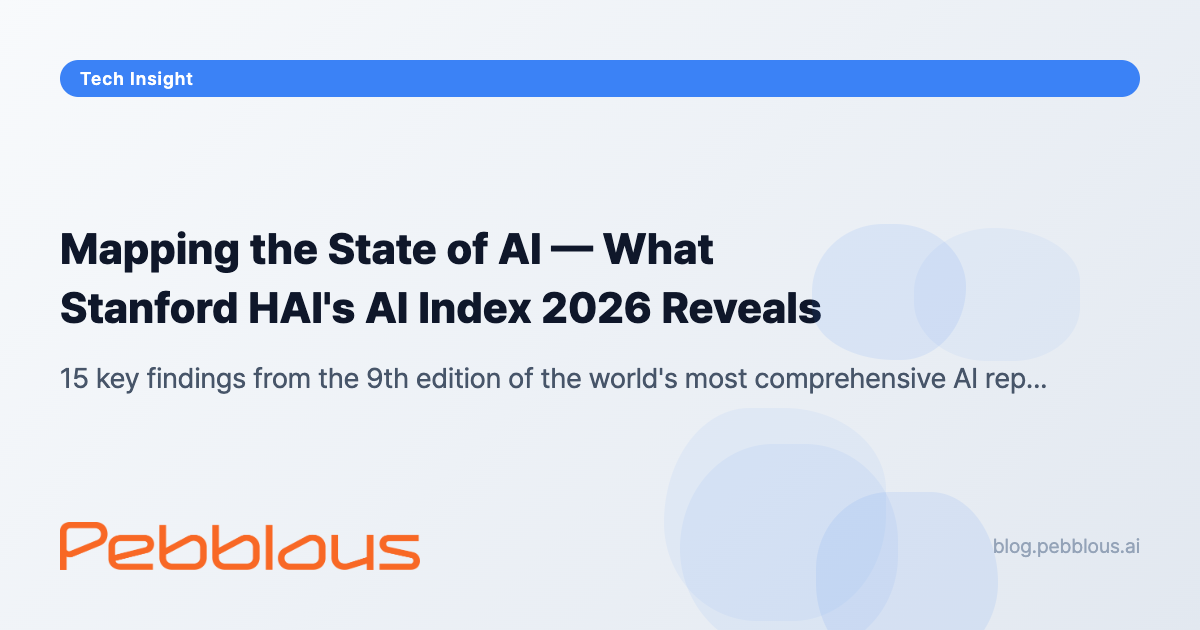
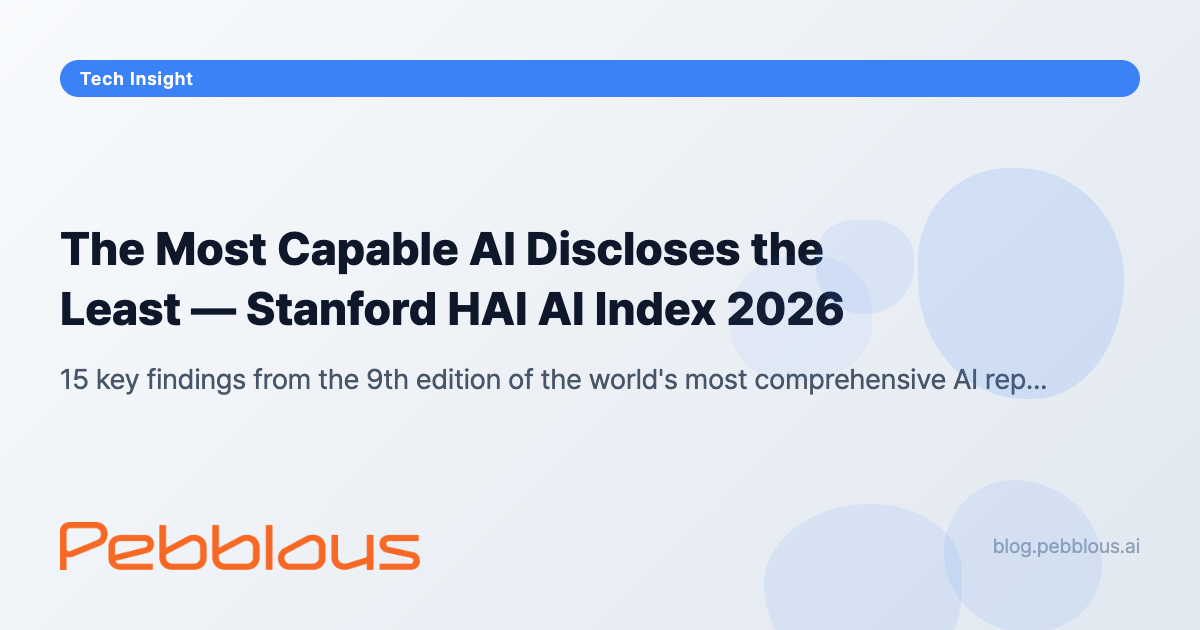
fix: HAI AI Index 제목 리뉴얼 + title-strategy §7 규칙 추가
제목: "AI의 지도를 펼치다" → "가장 뛰어난 AI가 가장 적게 공개한다"
- Executive Summary에 FMTI 58→40 투명성 문단 + stat-card 2개 추가
- title-strategy.md §7: 제목→Exec Summary 일관성 규칙 신설
- report-produce SKILL.md: Phase 4에 title-strategy §7 참조 추가
- OG 이미지 재생성 + articles.json 제목 업데이트

diff --git a/report/hai-ai-index-2026-part1/ko/index.html b/report/hai-ai-index-2026-part1/ko/index.html
@@ -9,7 +9,7 @@
     <meta name="copyright" content="&copy; 2026 Pebblous. All rights reserved.">
     <meta name="robots" content="index, follow">
 
-    <title>AI의 지도를 펼치다 — Stanford HAI AI Index 2026이 말하는 것 | 페블러스</title>
+    <title>가장 뛰어난 AI가 가장 적게 공개한다 — Stanford HAI AI Index 2026 핵심 해설 | 페블러스</title>
     <meta name="description" content="Stanford HAI AI Index 2026의 핵심 발견 15개를 해설합니다. 글로벌 AI 투자 $581.7B, GenAI 채택 53%, DeepSeek의 미중 격차 해소까지. 2025판 대비 변화와 데이터 품질 사각지대를 분석합니다.">
     <meta name="keywords" content="AI Index, Stanford HAI, 글로벌 AI, AI 벤치마크, AI 투자, AI 정책, DeepSeek, 데이터 품질, AI Index 2026, AI 현황 보고서">
 
@@ -20,13 +20,13 @@
 
     <!-- Open Graph -->
     <meta property="og:type" content="article">
-    <meta property="og:title" content="AI의 지도를 펼치다 — Stanford HAI AI Index 2026이 말하는 것">
+    <meta property="og:title" content="가장 뛰어난 AI가 가장 적게 공개한다 — Stanford HAI AI Index 2026 핵심 해설">
     <meta property="og:description" content="9번째 글로벌 AI 현황 보고서의 핵심 발견 15개와 2025판 대비 변화. 투자 $581.7B, DeepSeek 등장, 데이터 품질 사각지대를 분석합니다.">
     <meta property="og:url" content="https://blog.pebblous.ai/report/hai-ai-index-2026-part1/ko/">
     <meta property="og:image" content="https://blog.pebblous.ai/report/hai-ai-index-2026-part1/ko/image/index.png">
     <meta property="og:image:width" content="1200">
     <meta property="og:image:height" content="630">
-    <meta property="og:image:alt" content="AI의 지도를 펼치다 — Stanford HAI AI Index 2026이 말하는 것">
+    <meta property="og:image:alt" content="가장 뛰어난 AI가 가장 적게 공개한다 — Stanford HAI AI Index 2026 핵심 해설">
     <meta property="og:site_name" content="Pebblous Blog">
     <meta property="og:locale" content="ko_KR">
 
@@ -34,7 +34,7 @@
     <meta name="twitter:card" content="summary_large_image">
     <meta name="twitter:site" content="@pebblous_ai">
     <meta name="twitter:creator" content="@pebblous_ai">
-    <meta name="twitter:title" content="AI의 지도를 펼치다 — Stanford HAI AI Index 2026이 말하는 것">
+    <meta name="twitter:title" content="가장 뛰어난 AI가 가장 적게 공개한다 — Stanford HAI AI Index 2026 핵심 해설">
     <meta name="twitter:description" content="Stanford HAI AI Index 2026 핵심 발견 15개 해설. 글로벌 AI 투자 $581.7B, GenAI 53% 채택, DeepSeek의 미중 격차 해소.">
     <meta name="twitter:image" content="https://blog.pebblous.ai/report/hai-ai-index-2026-part1/ko/image/index.png">
     <meta name="twitter:image:alt" content="Stanford HAI AI Index 2026 보고서 분석 표지">
@@ -159,6 +159,9 @@
                             가장 주목할 변화는 미중 AI 격차의 사실상 해소다. DeepSeek-R1이 2025년 2월 미국 1위 모델과 동등한 성능을 기록했고, 2026년 3월 기준 Anthropic 1위 모델이 2.7%만 앞서는 수준이다. 동시에 AI는 IMO 금메달을 따면서도 아날로그 시계를 50.1%밖에 읽지 못하는 "울퉁불퉁한 최전선(jagged frontier)"을 보여준다. 역량과 한계가 극적으로 공존하는 시대다.
                         </p>
                         <p class="themeable-text leading-relaxed mt-4">
+                            그러나 역량이 강해질수록 투명성은 후퇴하고 있다. Foundation Model Transparency Index는 전년 <strong>58점에서 40점</strong>으로 급락했다. Google, Anthropic, OpenAI 모두 최신 모델의 데이터셋 크기와 학습 기간 공개를 중단했다. 95개 주요 모델 중 <strong>84%</strong>가 학습 코드를 제공하지 않는다. 보고서의 요약은 날카롭다 — "가장 뛰어난 모델이 가장 적게 공개한다."
+                        </p>
+                        <p class="themeable-text leading-relaxed mt-4">
                             페블러스가 주목하는 건 AI Index가 측정하지 않는 영역이다. 학습 데이터 품질, 산업 현장 적용도, 벤치마크 포화 이후의 평가 체계. 보고서 Ch.1은 "합성데이터가 실제 데이터를 대체하지 못하지만, 데이터 품질과 후처리가 유망"이라고 명시한다. OLMo 3.1 Think 32B가 Grok 4보다 90배 적은 파라미터로 유사 성능을 달성한 사례가 이를 뒷받침한다. 데이터 품질은 모델 아키텍처만큼 중요한 설계 변수다.
                         </p>
                     </div>
@@ -180,6 +183,14 @@
                         <div class="stat-card themeable-bg-card rounded-lg">
                             <div class="stat-number">2.7%</div>
                             <p class="themeable-text text-sm mt-1">미중 AI 모델 성능 격차 (2026.3 기준)</p>
+                        </div>
+                        <div class="stat-card themeable-bg-card rounded-lg">
+                            <div class="stat-number">40점</div>
+                            <p class="themeable-text text-sm mt-1">투명성 지수 FMTI (전년 58점)</p>
+                        </div>
+                        <div class="stat-card themeable-bg-card rounded-lg">
+                            <div class="stat-number">362건</div>
+                            <p class="themeable-text text-sm mt-1">AI 사고 건수 (+55% YoY)</p>
                         </div>
                     </div>
                 </section>
@@ -708,9 +719,9 @@
     <script src="/scripts/common-utils.js?v=20260419"></script>
     <script>
         PebblousPage.init({
-            mainTitle: "AI의 지도를 펼치다",
-            subtitle: "Stanford HAI AI Index 2026이 말하는 것",
-            pageTitle: "AI의 지도를 펼치다 — Stanford HAI AI Index 2026이 말하는 것 | 페블러스",
+            mainTitle: "가장 뛰어난 AI가 가장 적게 공개한다",
+            subtitle: "Stanford HAI AI Index 2026 핵심 해설",
+            pageTitle: "가장 뛰어난 AI가 가장 적게 공개한다 — Stanford HAI AI Index 2026 핵심 해설 | 페블러스",
             category: "tech",
             publishDate: "2026-04-19",
             publisher: "(주)페블러스 데이터커뮤니케이션팀",

diff --git a/report/hai-ai-index-2026-part1/en/index.html b/report/hai-ai-index-2026-part1/en/index.html
@@ -9,7 +9,7 @@
     <meta name="copyright" content="&copy; 2026 Pebblous. All rights reserved.">
     <meta name="robots" content="index, follow">
 
-    <title>Mapping the State of AI — What Stanford HAI's AI Index 2026 Reveals | Pebblous</title>
+    <title>The Most Capable AI Discloses the Least — Stanford HAI AI Index 2026 | Pebblous</title>
     <meta name="description" content="A deep dive into Stanford HAI AI Index 2026's 15 key findings. Global AI investment hit $581.7B, GenAI adoption reached 53%, and DeepSeek closed the US-China gap. We analyze year-over-year shifts and the data quality blind spot.">
     <meta name="keywords" content="AI Index, Stanford HAI, global AI, AI benchmarks, AI investment, AI policy, DeepSeek, data quality, AI Index 2026, state of AI report">
 
@@ -20,13 +20,13 @@
 
     <!-- Open Graph -->
     <meta property="og:type" content="article">
-    <meta property="og:title" content="Mapping the State of AI — What Stanford HAI's AI Index 2026 Reveals">
+    <meta property="og:title" content="The Most Capable AI Discloses the Least — Stanford HAI AI Index 2026">
     <meta property="og:description" content="15 key findings from the 9th edition of the world's most comprehensive AI report. $581.7B in investment, DeepSeek's rise, and the data quality blind spot.">
     <meta property="og:url" content="https://blog.pebblous.ai/report/hai-ai-index-2026-part1/en/">
     <meta property="og:image" content="https://blog.pebblous.ai/report/hai-ai-index-2026-part1/en/image/index.png">
     <meta property="og:image:width" content="1200">
     <meta property="og:image:height" content="630">
-    <meta property="og:image:alt" content="Mapping the State of AI — What Stanford HAI's AI Index 2026 Reveals">
+    <meta property="og:image:alt" content="The Most Capable AI Discloses the Least — Stanford HAI AI Index 2026">
     <meta property="og:site_name" content="Pebblous Blog">
     <meta property="og:locale" content="en_US">
 
@@ -34,7 +34,7 @@
     <meta name="twitter:card" content="summary_large_image">
     <meta name="twitter:site" content="@pebblous_ai">
     <meta name="twitter:creator" content="@pebblous_ai">
-    <meta name="twitter:title" content="Mapping the State of AI — What Stanford HAI's AI Index 2026 Reveals">
+    <meta name="twitter:title" content="The Most Capable AI Discloses the Least — Stanford HAI AI Index 2026">
     <meta name="twitter:description" content="Stanford HAI AI Index 2026: 15 key findings. $581.7B in global AI investment, 53% GenAI adoption, and how DeepSeek closed the US-China performance gap.">
     <meta name="twitter:image" content="https://blog.pebblous.ai/report/hai-ai-index-2026-part1/en/image/index.png">
     <meta name="twitter:image:alt" content="Stanford HAI AI Index 2026 analysis cover">
@@ -159,6 +159,9 @@
                             The most striking development is the virtual closure of the US-China AI gap. DeepSeek-R1 matched the top US model in February 2025, and as of March 2026, Anthropic's leading model is only 2.7% ahead. At the same time, AI displays what the report calls a "jagged frontier" -- winning an IMO gold medal while reading analog clocks at just 50.1% accuracy. Superhuman prowess and basic failures coexist in dramatic fashion.
                         </p>
                         <p class="themeable-text leading-relaxed mt-4">
+                            Yet as capabilities surge, transparency is retreating. The Foundation Model Transparency Index plunged from <strong>58 to 40 points</strong>. Google, Anthropic, and OpenAI have all stopped disclosing dataset sizes and training durations for their latest models. Of the 95 most notable models launched in 2025, <strong>84% shipped without training code</strong>. The report's verdict is blunt: "the most capable models now disclose the least."
+                        </p>
+                        <p class="themeable-text leading-relaxed mt-4">
                             What interests Pebblous most is what the AI Index does not measure: training data quality, real-world deployment effectiveness, and evaluation frameworks beyond saturated benchmarks. Chapter 1 of the report states that "synthetic data cannot replace real data, but data quality and post-processing show promise." The case of OLMo 3.1 Think 32B achieving comparable performance to Grok 4 with 90 times fewer parameters underscores the point. Data quality is a design variable every bit as critical as model architecture.
                         </p>
                     </div>
@@ -180,6 +183,14 @@
                         <div class="stat-card themeable-bg-card rounded-lg">
                             <div class="stat-number">2.7%</div>
                             <p class="themeable-text text-sm mt-1">US-China AI model performance gap (Mar 2026)</p>
+                        </div>
+                        <div class="stat-card themeable-bg-card rounded-lg">
+                            <div class="stat-number">40 pts</div>
+                            <p class="themeable-text text-sm mt-1">Transparency Index FMTI (prev. 58)</p>
+                        </div>
+                        <div class="stat-card themeable-bg-card rounded-lg">
+                            <div class="stat-number">362</div>
+                            <p class="themeable-text text-sm mt-1">AI incidents (+55% YoY)</p>
                         </div>
                     </div>
                 </section>
@@ -708,9 +719,9 @@
     <script src="/scripts/common-utils.js?v=20260419"></script>
     <script>
         PebblousPage.init({
-            mainTitle: "Mapping the State of AI",
-            subtitle: "What Stanford HAI's AI Index 2026 Reveals",
-            pageTitle: "Mapping the State of AI — What Stanford HAI's AI Index 2026 Reveals | Pebblous",
+            mainTitle: "The Most Capable AI Discloses the Least",
+            subtitle: "Stanford HAI AI Index 2026 — Key Findings",
+            pageTitle: "The Most Capable AI Discloses the Least — Stanford HAI AI Index 2026 | Pebblous",
             category: "tech",
             publishDate: "2026-04-19",
             publisher: "Pebblous Data Communication Team",

diff --git a/docs/title-strategy.md b/docs/title-strategy.md
@@ -175,7 +175,61 @@ PebblousPage.init({
 
 ---
 
-## 7. 안티패턴 (하지 말 것)
+## 7. 제목 → Executive Summary 일관성 규칙
+
+mainTitle이 던진 약속을 Executive Summary가 즉시 이행해야 한다. 제목과 첫 화면이 따로 놀면 독자가 이탈한다.
+
+### 7.1 원칙: 제목의 핵심 주장이 Executive Summary 안에 있어야 한다
+
+| 요소 | 역할 | 예시 |
+|------|------|------|
+| **mainTitle** | 호기심 유발, 핵심 발견 한 줄 | "가장 뛰어난 AI가 가장 적게 공개한다" |
+| **Executive Summary** | mainTitle의 근거를 수치로 제시 | FMTI 58→40, 84% 학습코드 미공개 |
+| **본문 해당 섹션** | 상세 분석 | 5.2 학습 데이터 투명성의 붕괴 |
+
+만약 mainTitle이 "투명성 위기"를 말하는데 Executive Summary에 투명성 관련 수치가 없다면 → **제목과 본문이 단절**된 것. 반드시 수정.
+
+### 7.2 체크리스트
+
+- [ ] mainTitle의 핵심 키워드가 Executive Summary 3문단 안에 등장하는가?
+- [ ] mainTitle이 약속한 "발견"의 근거 수치가 Executive Summary에 있는가?
+- [ ] stat-card(핵심 수치 카드)에 mainTitle과 관련된 지표가 포함되어 있는가?
+- [ ] subtitle의 보조 키워드도 Executive Summary에서 맥락이 설명되는가?
+
+### 7.3 외부 보고서/논문 기반 글의 제목 전략
+
+외부 보고서(Stanford HAI, McKinsey 등)를 다룰 때:
+
+| 규칙 | 이유 |
+|------|------|
+| **mainTitle에 외부 브랜드명 넣지 않는다** | 페블러스의 독자적 관점이 묻힘 |
+| **subtitle에 외부 보고서명을 넣는다** | SEO 키워드 확보 + 출처 명시 |
+| **mainTitle은 페블러스 관점의 발견이어야 한다** | 단순 요약이 아닌 해석을 약속 |
+| **페블러스/DataClinic 언급은 본문에서만** | 제목에 넣으면 독자층이 좁아짐 |
+
+```
+✅ 좋은 예:
+mainTitle: "가장 뛰어난 AI가 가장 적게 공개한다"
+subtitle: "Stanford HAI AI Index 2026 핵심 해설"
+
+❌ 나쁜 예:
+mainTitle: "AI의 지도를 펼치다"             ← 모호, 클릭 이유 없음
+mainTitle: "Stanford HAI AI Index 2026 분석" ← 정보형, 후킹 없음
+mainTitle: "DataClinic 관점에서 본 AI Index" ← 독자층 축소
+```
+
+### 7.4 교훈 사례: HAI AI Index 2026
+
+- **변경 전**: mainTitle "AI의 지도를 펼치다" / subtitle "Stanford HAI AI Index 2026이 말하는 것"
+- **문제**: 시적이지만 모호. Executive Summary에 제목과 직결되는 수치 없음
+- **변경 후**: mainTitle "가장 뛰어난 AI가 가장 적게 공개한다" / subtitle "Stanford HAI AI Index 2026 핵심 해설"
+- **보강**: Executive Summary에 FMTI 58→40, 84% 학습코드 미공개 문단 추가 + stat-card 추가
+
+---
+
+## 8. 안티패턴 (하지 말 것)
+
+> 7번의 제목→Exec Summary 단절도 안티패턴에 해당한다.
 
 | 안티패턴 | 문제 | 개선 |
 |----------|------|------|
@@ -188,7 +242,7 @@ PebblousPage.init({
 
 ---
 
-## 8. UrbanGPT 사례 분석 — CTR 21-55%의 비밀
+## 9. UrbanGPT 사례 분석 — CTR 21-55%의 비밀
 
 GSC 데이터 기반 분석 (2026-03 기준):
 
